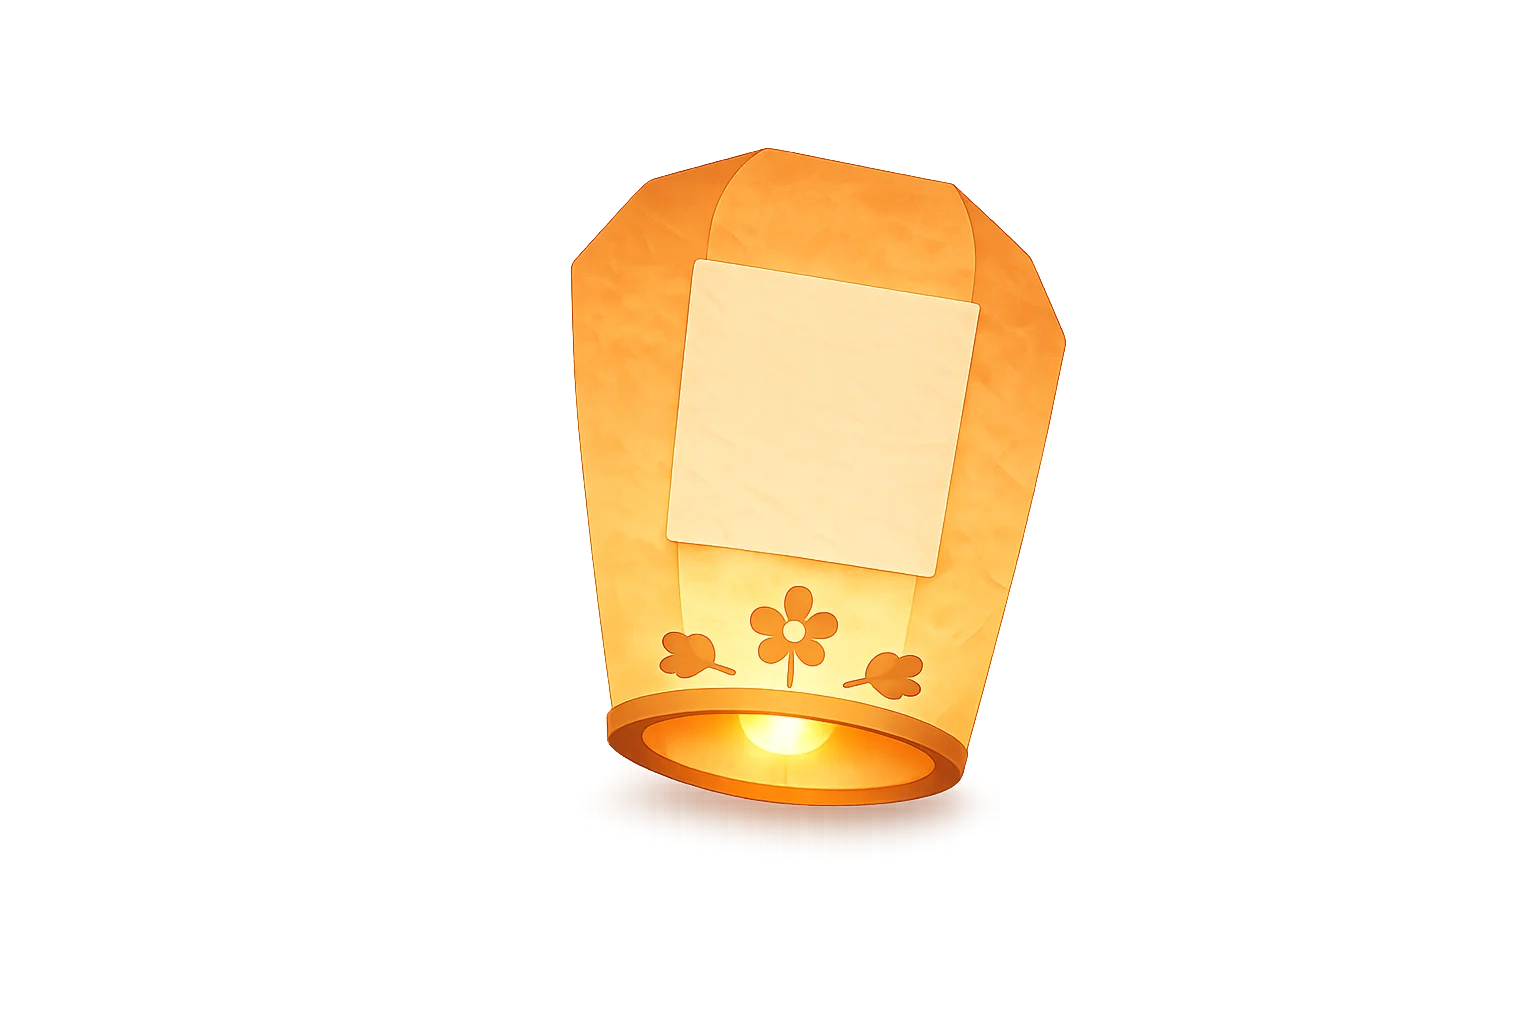
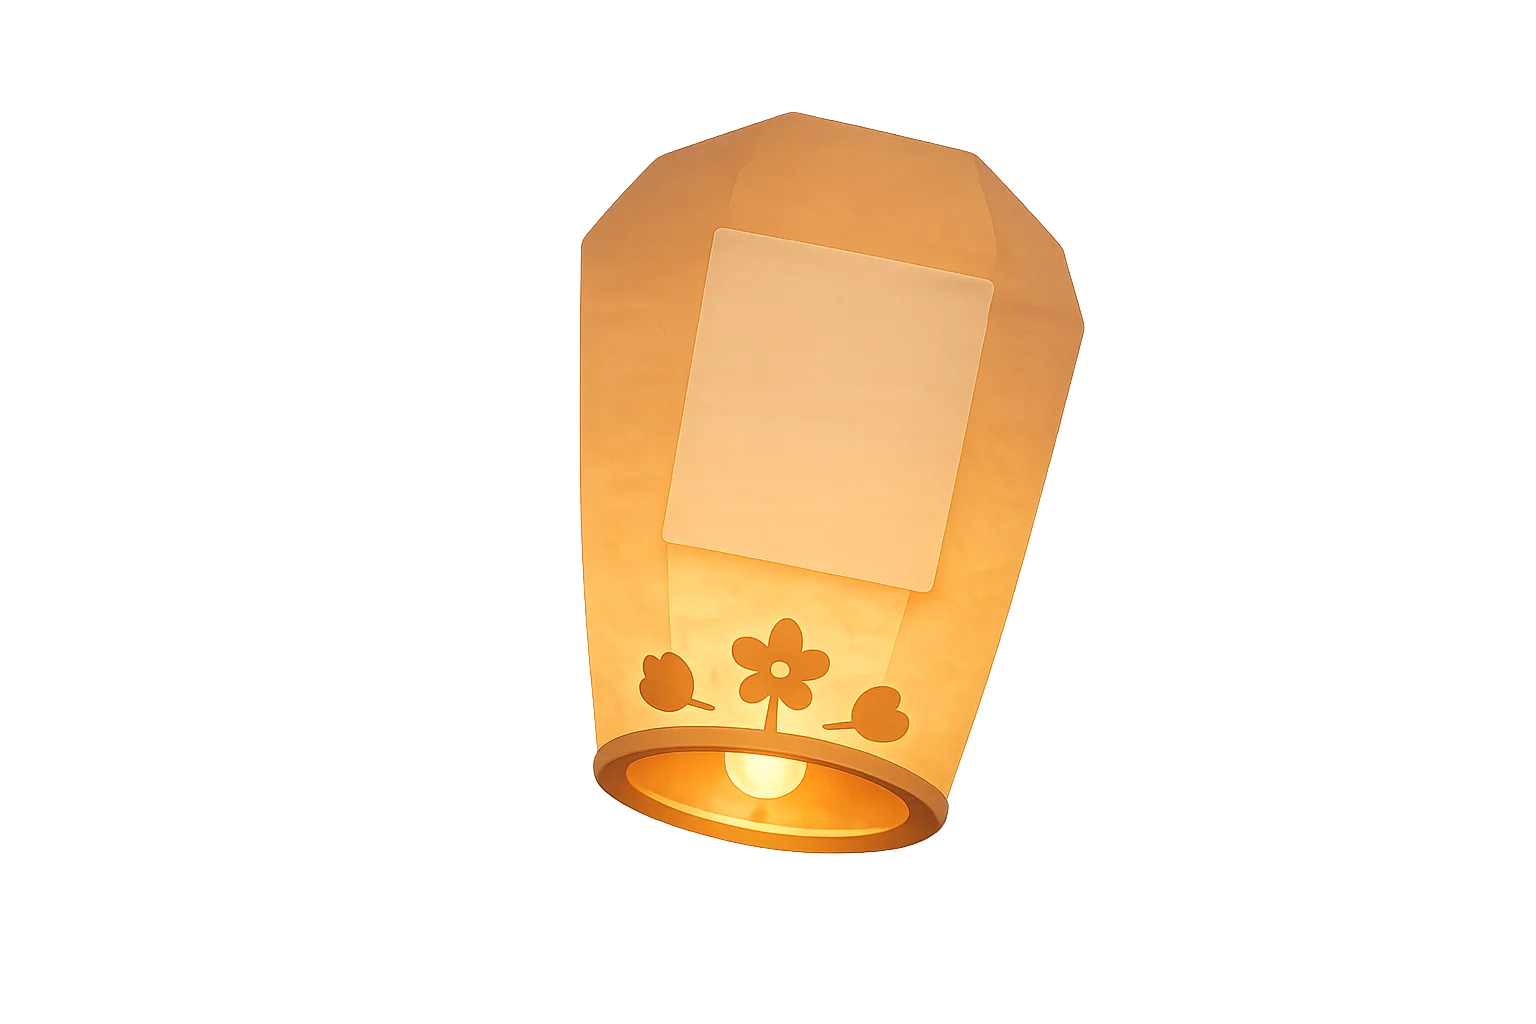
cambio de faroles y mejoras en estilos

Changed region(s): [[0.375, 0.0938, 0.7188, 0.8438]]

diff --git a/frontend/src/pages/Lanterns/Lanterns.tsx b/frontend/src/pages/Lanterns/Lanterns.tsx
@@ -3,8 +3,8 @@ import { useNavigate } from 'react-router-dom'
 
 import background from '../../assets/lanterns/ligth-theme/background-lanterns.webp'
 import darkBackground from '../../assets/lanterns/dark-theme/background/night-background.webp'
-import lanternImage from '../../assets/lanterns/dark-theme/lantern.webp'
-import darkLanternImage from '../../assets/lanterns/dark-theme/lantern.webp'
+import lanternImage from '../../assets/lanterns/ligth-theme/Lantern-Ligth.webp'
+import darkLanternImage from '../../assets/lanterns/dark-theme/Lantern-Dark.webp'
 import paperImage from '../../assets/lanterns/paper.webp'
 import darkPaperImage from '../../assets/lanterns/paper.webp'
 
@@ -17,7 +17,7 @@ interface Lantern {
 }
 
 const MAX_LANTERNS = 5
-const MAX_TEXT_LENGTH = 120
+const MAX_TEXT_LENGTH = 20
 
 const BG_POSITIONS = [
   { top: '5%', left: '60%', size: 'w-[22%] md:w-[14%]', floatClass: 'lantern-float-1' },
@@ -118,8 +118,8 @@ export default function LanternsActivity() {
               />
 
               {isMain && (
-                <div className="lantern-note absolute left-[32%] right-[32%] top-[18%] bottom-[42%] flex flex-col items-center justify-center">
-                  <p className="text-center font-nunito text-[8px] font-semibold leading-tight md:text-[10px] overflow-hidden line-clamp-3">
+                <div className="lantern-note absolute left-[40%] right-[32%] top-[18%] bottom-[42%] flex flex-col items-center justify-center">
+                  <p className="text-center font-nunito text-[12px] font-semibold leading-tight md:text-[14px] overflow-hidden line-clamp-3">
                     {lantern.text}
                   </p>
                 </div>

diff --git a/frontend/src/pages/Lanterns/Lanterns.css b/frontend/src/pages/Lanterns/Lanterns.css
@@ -24,7 +24,7 @@
 }
 
 .lantern-note {
-  transform: rotate(-2deg);
+  transform: rotate(10deg);
 }
 
 .lantern-note p {
@@ -33,6 +33,9 @@
   line-height: 1.4;
   color: #4a3520;
   text-shadow: none;
+  white-space: normal;
+  overflow-wrap: anywhere;
+  text-align: center;
 }
 
 .lantern-float-1 { animation: lantern-drift-1 6s ease-in-out infinite; }
@@ -49,7 +52,6 @@
     font-weight: 800;
     color: #5b3d8a;
     margin: 0 0 0.25rem;
-    text-shadow: 0 1px 3px rgba(255,255,255,0.5);
 }
 
 .lantern-subtitle {
@@ -78,9 +80,6 @@
 
 .lanterns-page--dark .lantern-title {
   color: #e5eef7;
-  text-shadow:
-    0 2px 8px rgba(0, 0, 0, 0.6),
-    0 0 12px rgba(229, 238, 247, 0.25);
 }
 
 .lanterns-page--dark .lantern-subtitle {
